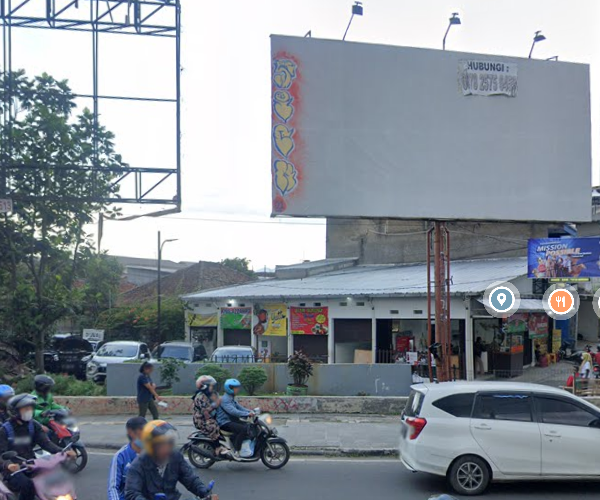
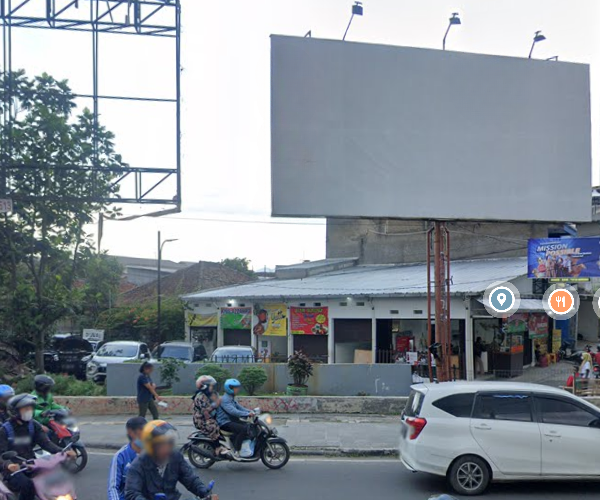
update

Changed region(s): [[0.45, 0.09, 0.51, 0.45], [0.75, 0.12, 0.87, 0.21]]

diff --git a/index.html b/index.html
@@ -166,7 +166,10 @@
           <div id="carouselLokasi1" class="carousel slide" data-ride="carousel">
             <div class="carousel-inner">
               <div class="carousel-item active">
-                <img class="w-100" src="img/lokasi-1.png" alt="image">
+                <img class="w-100" src="img/lokasi-1 (dunhill).png" alt="image">
+              </div>
+              <div class="carousel-item">
+                <img class="w-100" src="img/lokasi-1 (kosong).png" alt="image">
               </div>
             </div>
             <button class="carousel-control-prev" type="button" data-bs-target="#carouselLokasi1" data-bs-slide="prev">
@@ -179,8 +182,14 @@
             </button>
           </div>
           <div class="px-4 pb-4 mt-4">
-            <p><i class="fa fa-map-marker-alt text-primary"></i> Jl. Moh. Toha - Jl. Soekarno Hatta</p>
-            <p><i class="fas fa-arrows-alt text-primary"></i> 5m x 10m x 1 Muka</p>
+            <p><i class="fa fa-map-marker-alt text-primary"></i> Jl. Moh. Toha - Jl. Soekarno Hatta, Bandung, Jawa Barat</p>
+            <p><i class="fas fa-arrows-alt text-primary"></i> 5m x 10m x 2 Muka</p>
+            <img class="w-100" src="img/lokasi-1-denah.png" alt="">
+            <p class="mt-4">
+              <i class="fas fa-phone text-primary me-2"></i> <a
+                href="https://api.whatsapp.com/send?phone=6282117111059&text&type=phone_number&app_absent=0"
+                target="_blank">+62 821-1711-1059</a>
+            </p>
             <a class="btn text-primary"
               href="https://www.google.com/maps/@-6.9482736,107.6081516,3a,75y,273.34h,96.64t/data=!3m6!1e1!3m4!1sciFkxt9Pji7o3O4oHQpn3Q!2e0!7i16384!8i8192"
               target="_blank"><i class="bi bi-arrow-right"></i> Live Location</a>
@@ -209,6 +218,12 @@
             <p><i class="fa fa-map-marker-alt text-primary"></i> Jl. Moh. Toha, (Depan PT. Inti) Cigereleng Regol
               Bandung, Jawa Barat</p>
             <p><i class="fas fa-arrows-alt text-primary"></i> 5m x 10m x 1 Muka</p>
+            <img class="w-100" src="img/lokasi-2-denah.png" alt="">
+            <p class="mt-4">
+              <i class="fas fa-phone text-primary me-2"></i> <a
+                href="https://api.whatsapp.com/send?phone=6282117111059&text&type=phone_number&app_absent=0"
+                target="_blank">+62 821-1711-1059</a>
+            </p>
             <a class="btn text-primary"
               href="https://www.google.com/maps/@-6.9373919,107.6062559,3a,76.5y,69.27h,88.11t/data=!3m6!1e1!3m4!1sUXuUMVwgcvlo2wy2NJbsRA!2e0!7i16384!8i8192"
               target="_blank"><i class="bi bi-arrow-right"></i> Live Location</a>
@@ -221,7 +236,10 @@
           <div id="carouselLokasi3" class="carousel slide" data-ride="carousel">
             <div class="carousel-inner">
               <div class="carousel-item active">
-                <img class="w-100" src="img/lokasi-3.png" alt="image">
+                <img class="w-100" src="img/lokasi-3 (siang).jpeg" alt="image">
+              </div>
+              <div class="carousel-item">
+                <img class="w-100" src="img/lokasi-3 (malam).png" alt="image">
               </div>
             </div>
             <button class="carousel-control-prev" type="button" data-bs-target="#carouselLokasi3" data-bs-slide="prev">
@@ -238,6 +256,12 @@
               Merdeka, Kec.
               Sumur Bandung Kota Bandung</p>
             <p><i class="fas fa-arrows-alt text-primary"></i> 5m x 10m x 1 Muka</p>
+            <img class="w-100" src="img/lokasi-3-denah.png" alt="">
+            <p class="mt-4">
+              <i class="fas fa-phone text-primary me-2"></i> <a
+                href="https://api.whatsapp.com/send?phone=6282117111059&text&type=phone_number&app_absent=0"
+                target="_blank">+62 821-1711-1059</a>
+            </p>
             <a class="btn text-primary"
               href="https://www.google.com/maps/@-6.9182515,107.6252714,3a,75y,35.17h,96.06t/data=!3m6!1e1!3m4!1s0dxq3NarUlFg-GBTh_pTEA!2e0!7i16384!8i8192"
               target="_blank"><i class="bi bi-arrow-right"></i> Live Location</a>
@@ -250,7 +274,7 @@
           <div id="carouselLokasi4" class="carousel slide" data-ride="carousel">
             <div class="carousel-inner">
               <div class="carousel-item active">
-                <img class="w-100" src="img/lokasi-4.png" alt="image">
+                <img class="w-100" src="img/lokasi-4 (siang).jpeg" alt="image">
               </div>
               <div class="carousel-item">
                 <img class="w-100" src="img/lokasi-4 (malam).png" alt="image">
@@ -267,9 +291,16 @@
           </div>
           <!-- <img class="img-fluid" src="img/lokasi-4.png" alt=""> -->
           <div class="px-4 pb-4 mt-4">
+            <p><i class="fas fa-desktop text-primary"></i> Backlite</p>
             <p><i class="fa fa-map-marker-alt text-primary"></i> Jl. Moch.Toha Jl. Pungkur, Pungkur, Kec. Regol, Kota
               Bandung, Jawa Barat 40252</p>
-            <p><i class="fas fa-arrows-alt text-primary"></i> 4m x 8m x 1 Muka</p>
+            <p><i class="fas fa-arrows-alt text-primary"></i> 4m x 6m x 1 Muka</p>
+            <img class="w-100" src="img/lokasi-4-denah.png" alt="">
+            <p class="mt-4">
+              <i class="fas fa-phone text-primary me-2"></i> <a
+                href="https://api.whatsapp.com/send?phone=6282117111059&text&type=phone_number&app_absent=0"
+                target="_blank">+62 821-1711-1059</a>
+            </p>
             <a class="btn text-primary"
               href="https://www.google.com/maps/@-6.9275411,107.6069578,3a,75y,344.01h,95.94t/data=!3m6!1e1!3m4!1sc7QXi5BIcWjpze2EMAsiOg!2e0!7i16384!8i8192"
               target="_blank"><i class="bi bi-arrow-right"></i> Live Location</a>
@@ -286,12 +317,7 @@
     <div class="text-center mx-auto mb-5" style="max-width: 600px;">
       <h1 class="display-5 text-uppercase mb-4">Hubungi <span class="text-primary">Kami</span></h1>
     </div>
-    <div class="row gx-0 align-items-center">
-      <div class="col-lg-6 mb-5 mb-lg-0" style="height: 600px;">
-        <iframe class="w-100 h-100"
-          src="https://www.google.com/maps/embed?pb=!1m18!1m12!1m3!1d3960.6412318946204!2d107.60900871468974!3d-6.93341289499053!2m3!1f0!2f0!3f0!3m2!1i1024!2i768!4f13.1!3m3!1m2!1s0x2e68e8849f8a698f%3A0xa5adf07b30f2838!2sJl.%20Sawah%20Kurung%20No.10%2C%20Ciateul%2C%20Kec.%20Regol%2C%20Kota%20Bandung%2C%20Jawa%20Barat%2040252!5e0!3m2!1sid!2sid!4v1678792009524!5m2!1sid!2sid"
-          frameborder="0" style="border:0;" allowfullscreen="" aria-hidden="false" tabindex="0"></iframe>
-      </div>
+    <div class="row justify-content-center">
       <div class="col-lg-6">
         <div class="contact-form bg-light p-5">
           <div class="row mb-4">
